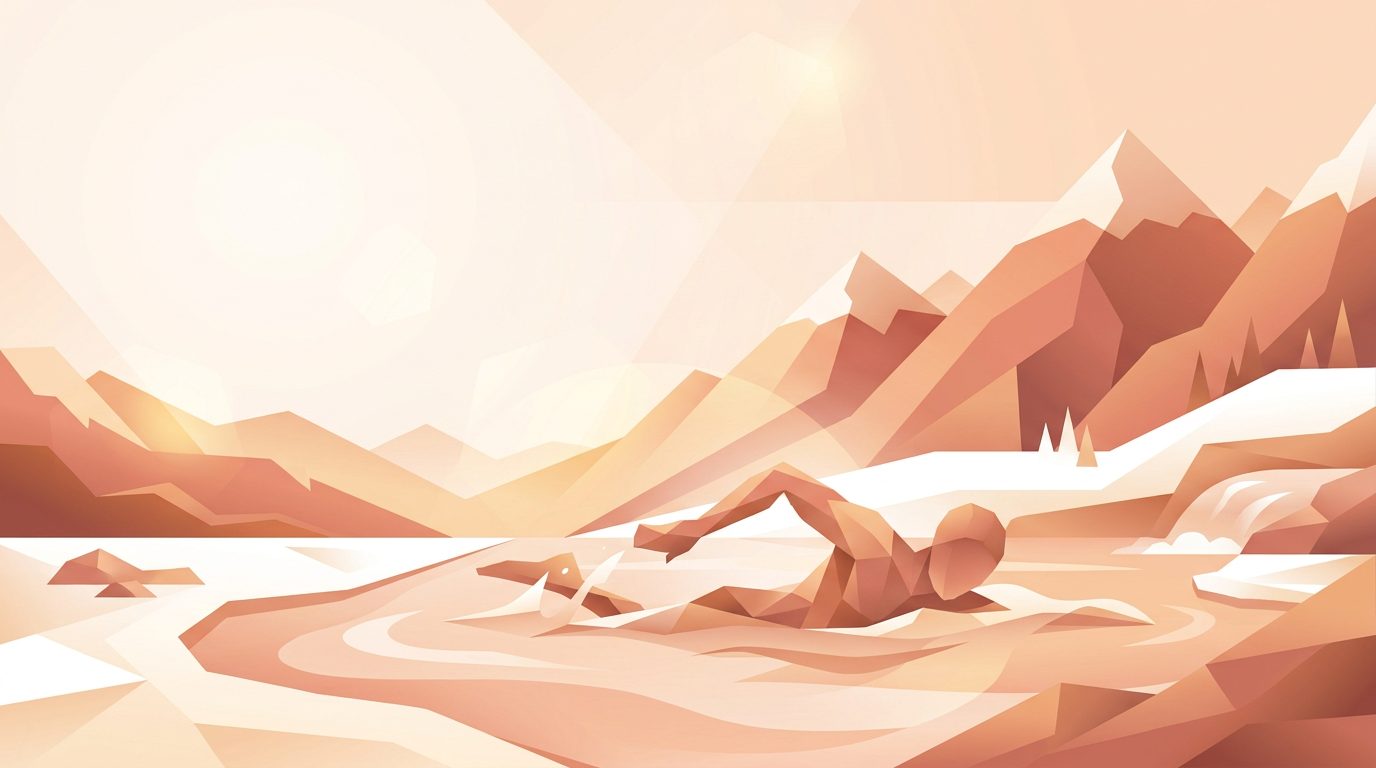
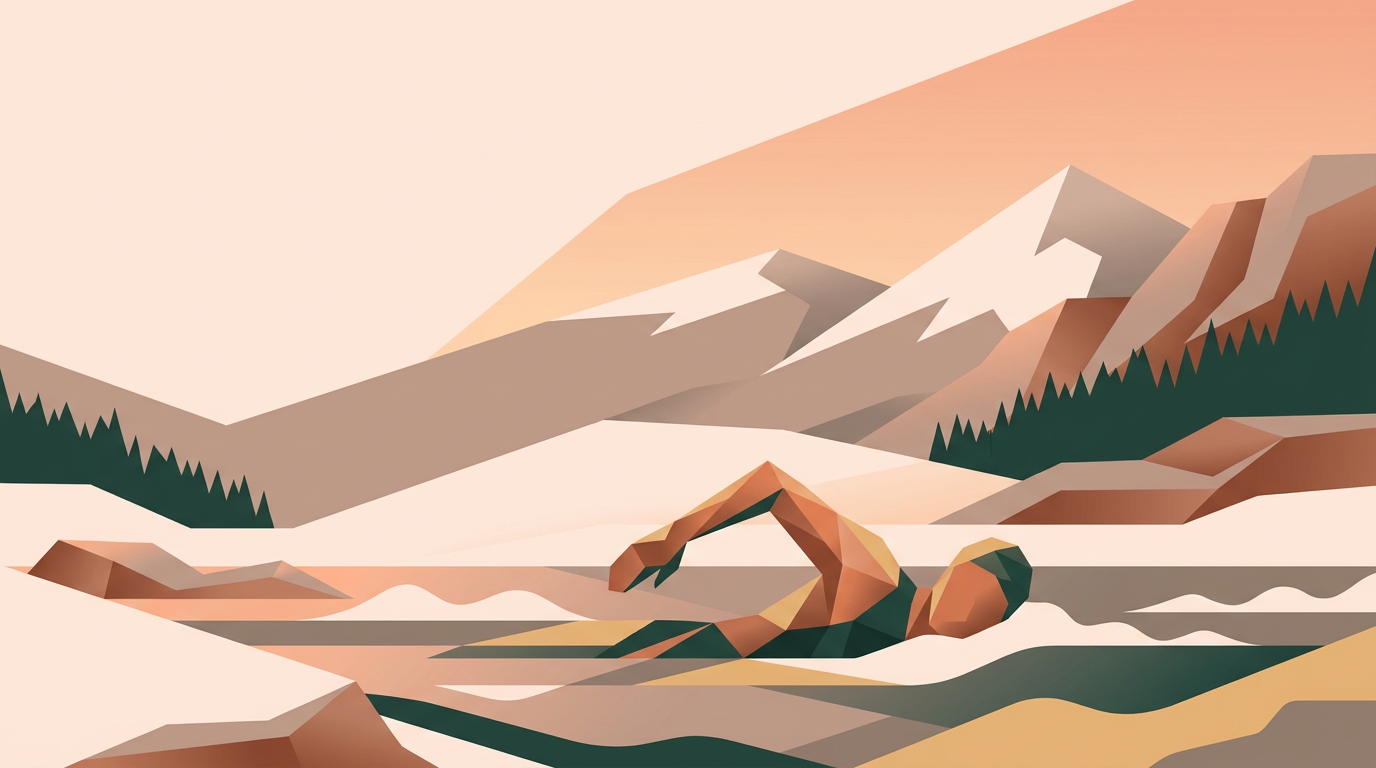
added image changes

diff --git a/src/main.jsx b/src/main.jsx
@@ -126,6 +126,8 @@ const CARD_ART = {
   "winter-endurance": "/assets/card-art/winter-endurance.png"
 };
 
+const FRAMED_CARD_PANEL_PROMPT_VERSIONS = new Set(["common-ground-card-panel-v2"]);
+
 const CARD_THEME_LABELS = {
   aquatic: "Water rhythm card",
   "control-pressure": "Control pressure card",
@@ -229,7 +231,7 @@ function shortProgramName(program) {
 
 function getPanelArtUrl(card, program, manifest) {
   const panel = manifest?.states?.[card.stateCode]?.[program];
-  if (panel?.url) return panel.url;
+  if (panel?.url && !FRAMED_CARD_PANEL_PROMPT_VERSIONS.has(panel.promptVersion)) return panel.url;
   const theme = getCardTheme(card);
   return CARD_ART[theme] || CARD_ART.neutral;
 }

diff --git a/README.md b/README.md
@@ -112,7 +112,7 @@ npm run generate:card-panels -- --all
 
 This reads `GOOGLE_CLOUD_PROJECT` and `GOOGLE_CLOUD_LOCATION` from `.env`, defaults to `gemini-3-pro-image-preview`, and writes images plus a manifest to `public/assets/card-panels`. If live Vertex images are not present, the UI falls back to the local abstract card art.
 
-The panel generator uses state-aware palette stories, so California, Florida, Texas, Colorado, and other geographies can produce distinct collectible-card color systems instead of always defaulting to blue Olympic panels and orange Paralympic panels.
+The panel generator uses state-aware palette stories, so California, Florida, Texas, Colorado, and other geographies can produce distinct collectible-card color systems instead of always defaulting to blue Olympic panels and orange Paralympic panels. It also prompts for full-bleed artwork, since the React card supplies the actual frame and labels.
 
 ## Compliance Notes
 
